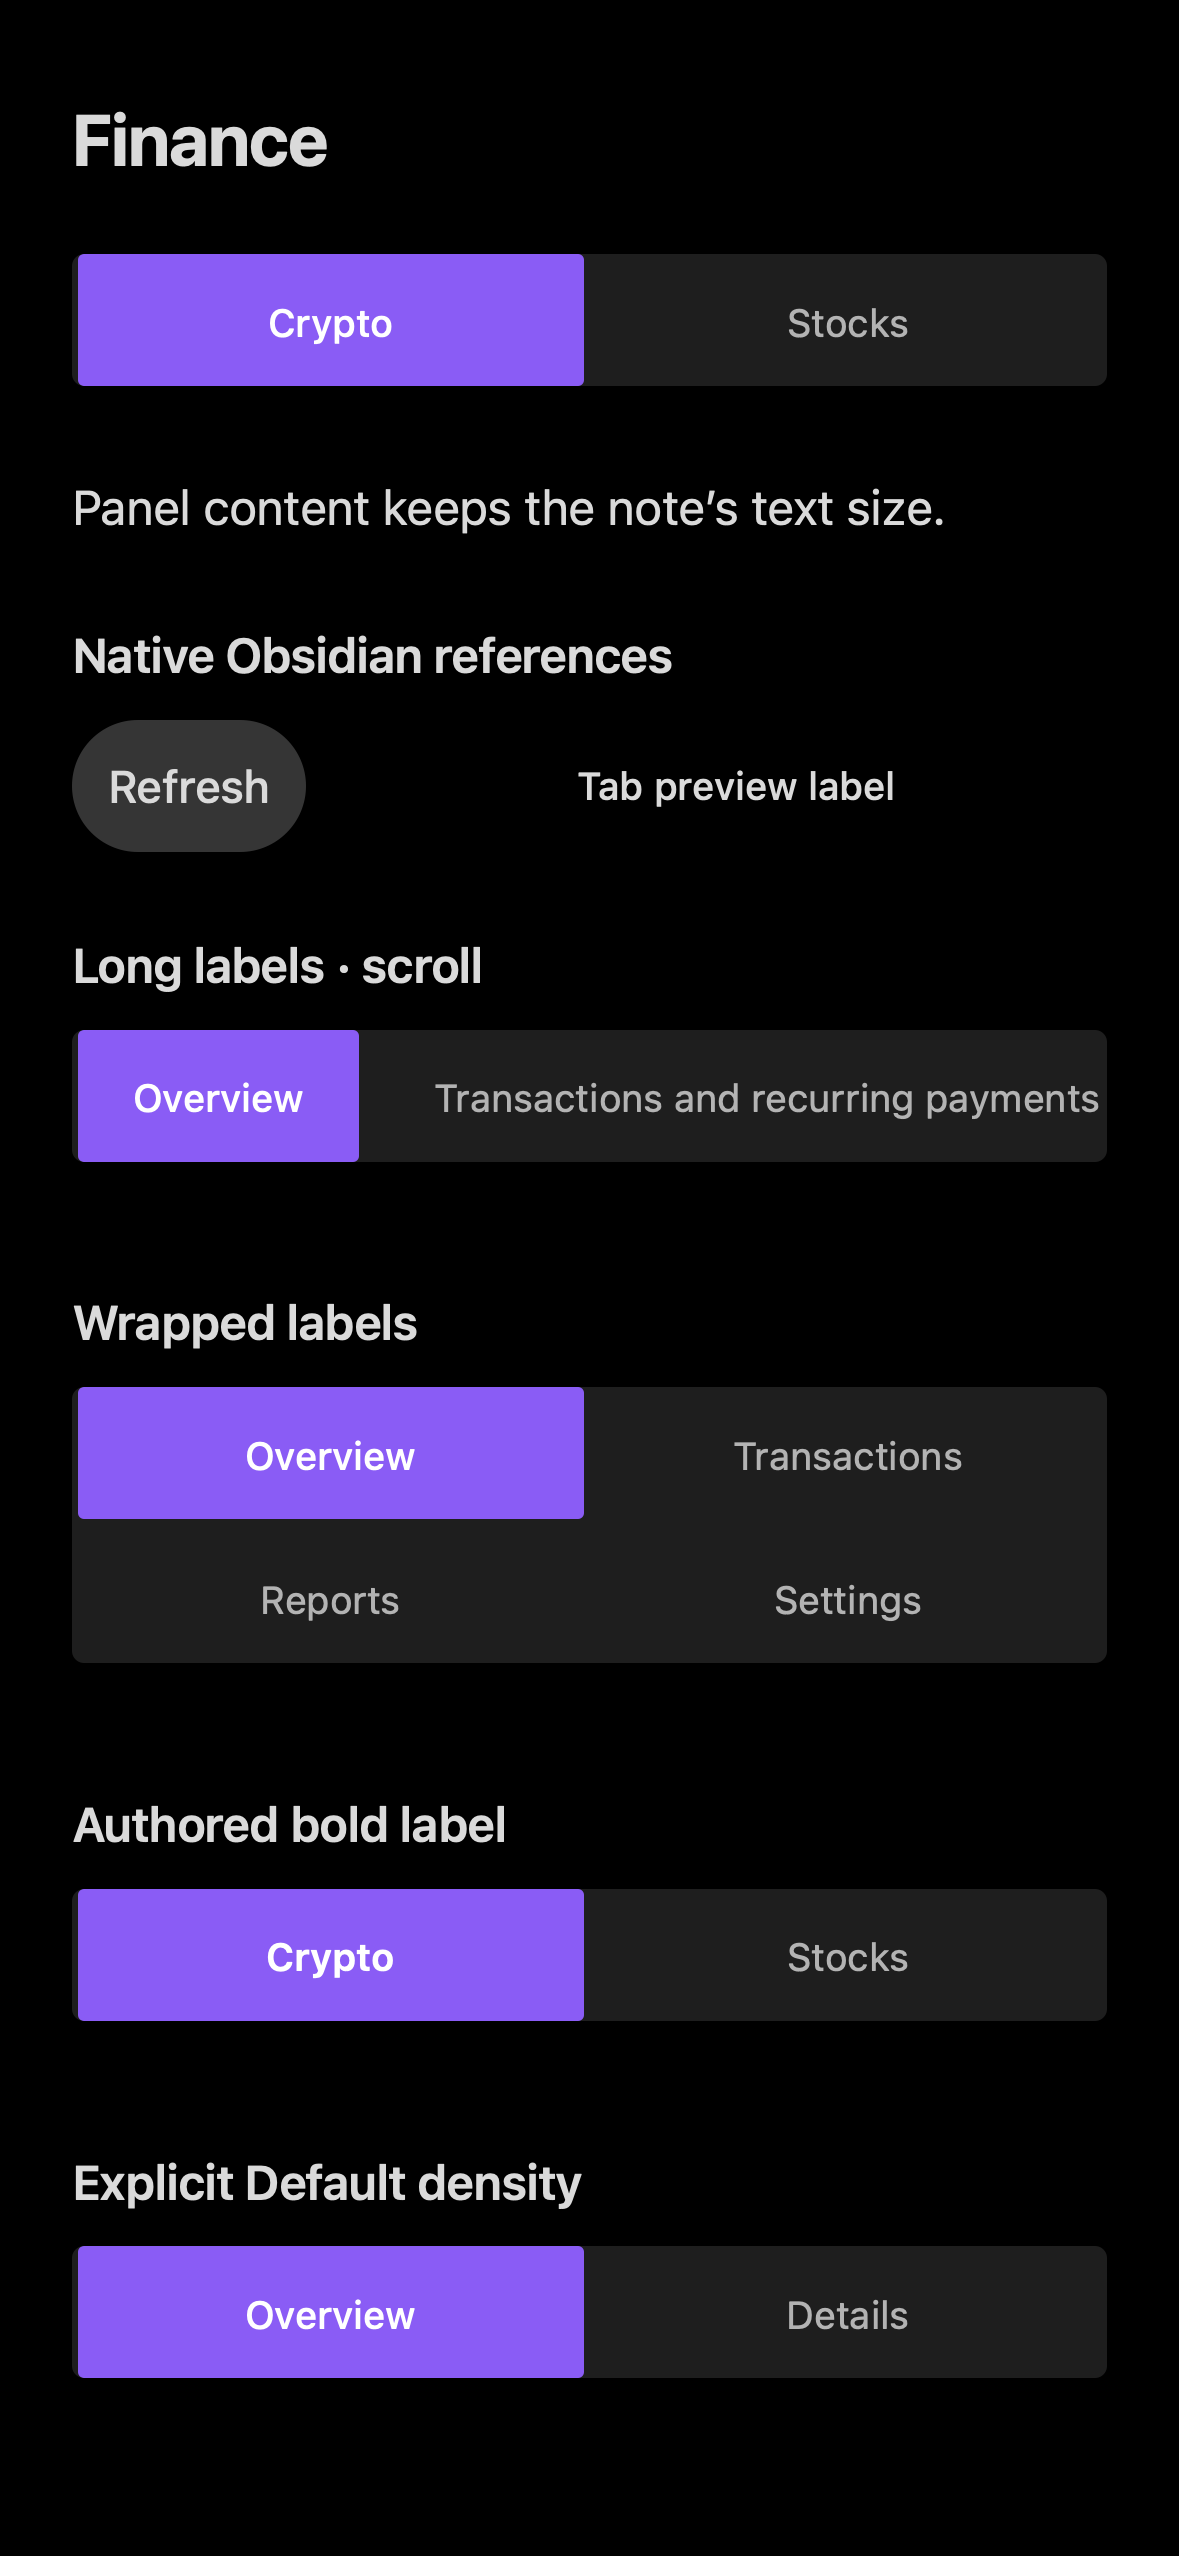
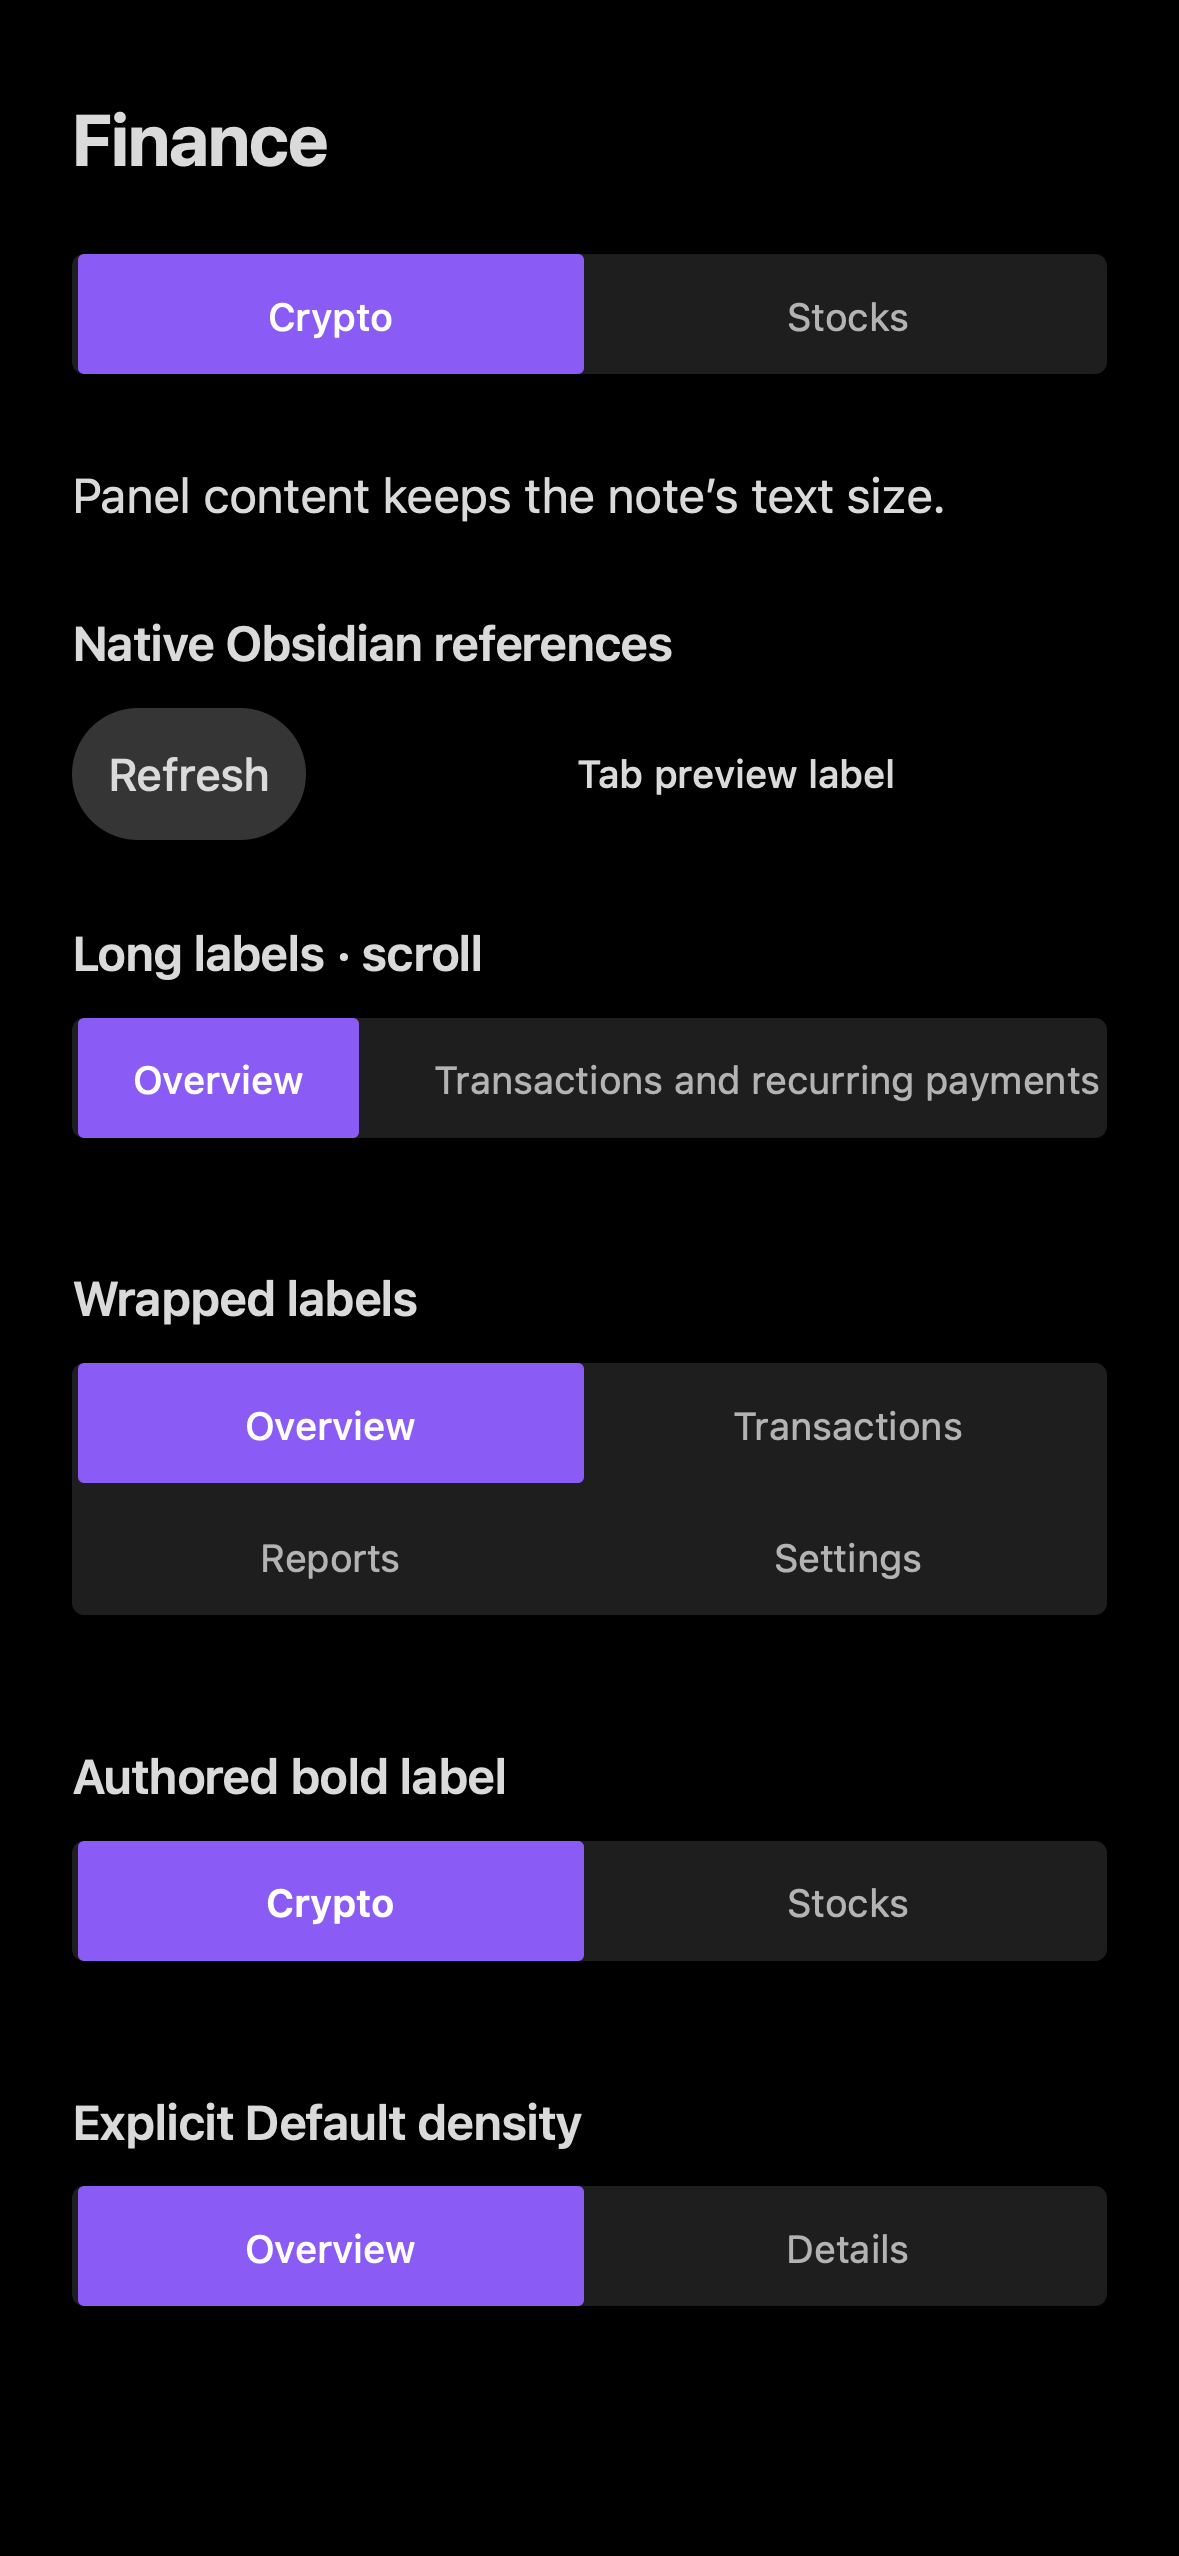
fix: reduce touch Rail height to 40px

diff --git a/tests/render.test.ts b/tests/render.test.ts
@@ -1757,7 +1757,7 @@ test("makes mounted tabs compact on narrow viewports without containing their pa
 	expect(styles).toMatch(/\.tabsdown\.tabsdown--mounted \{[^}]*container-type:\s*normal/);
 });
 
-test("uses scalable compact mobile control typography and a native-height touch rail", () => {
+test("uses scalable compact mobile control typography and a 40px touch rail", () => {
 	const styles = readStyles();
 	const mobile = matchingRuleBodies(styles, "body.is-mobile .tabsdown > .tabsdown__tablist");
 	expect(mobile).toContain("--tabsdown-tab-font-size: var(--font-ui-smaller)");
@@ -1788,10 +1788,12 @@ test("keeps authored overrides root-scoped without runtime width state", () => {
 	);
 });
 
-test("coarse pointers keep every authored personality and density at 44px", () => {
+test("coarse pointers keep 44px widths and 40px Rail or 44px other heights", () => {
 	const styles = readStyles();
 	const coarse = styles.slice(styles.lastIndexOf("@media (any-pointer: coarse)"));
 	const coarseRule = matchingRules(coarse, "body .tabsdown.tabsdown.tabsdown.tabsdown.tabsdown.tabsdown > .tabsdown__tablist");
+	const railRule = matchingRules(coarse, "body .tabsdown.tabsdown.tabsdown.tabsdown.tabsdown.tabsdown > .tabsdown__tablist.tabsdown__tablist--rail");
+	expect(railRule).toContain("--tabsdown-tab-min-block-size: 40px");
 	expect(coarseRule).toContain("--tabsdown-tab-min-size: 44px");
 	expect(coarseRule).toContain("--tabsdown-tab-min-block-size: 44px");
 	expect(coarseRule).toContain("--tabsdown-rail-track-padding: 0.125rem");
@@ -1804,6 +1806,7 @@ test("coarse pointers keep every authored personality and density at 44px", () =
 		matchingRules(styles, ".tabsdown.tabsdown--personality-"),
 		matchingRules(styles, ".tabsdown.tabsdown--density-"),
 		coarseRule,
+		railRule,
 	].join("\n");
 	for (const personality of ["button", "underline", "separator", "rail"]) {
 		for (const density of ["", "default", "compact"]) {
@@ -1812,7 +1815,7 @@ test("coarse pointers keep every authored personality and density at 44px", () =
 				density ? ` tabsdown--density-${density}` : ""
 			}`;
 			const list = root.appendChild(document.createElement("div"));
-			list.className = "tabsdown__tablist";
+			list.className = `tabsdown__tablist${personality === "rail" ? " tabsdown__tablist--rail" : ""}`;
 			const computed = getComputedStyle(list);
 			expect(
 				computed.getPropertyValue("--tabsdown-tab-min-size").trim(),
@@ -1821,7 +1824,7 @@ test("coarse pointers keep every authored personality and density at 44px", () =
 			expect(
 				computed.getPropertyValue("--tabsdown-tab-min-block-size").trim(),
 				`${personality}/${density || "automatic"}`,
-			).toBe("44px");
+			).toBe(personality === "rail" ? "40px" : "44px");
 			root.remove();
 		}
 	}

diff --git a/demo/.obsidian/plugins/tabsdown/styles.css b/demo/.obsidian/plugins/tabsdown/styles.css
@@ -2369,9 +2369,10 @@ body.is-mobile .tabsdown > .tabsdown__tablist {
 		--tabsdown-rail-track-padding: 0.125rem;
 	}
 
-	/* The Rail's 44px buttons already provide the touch target; extra vertical
-	   track padding would make the whole control taller than native inputs. */
+	/* Keep the requested compact Rail height without extra vertical track
+	   padding. Text can still grow beyond this minimum. */
 	body .tabsdown.tabsdown.tabsdown.tabsdown.tabsdown.tabsdown > .tabsdown__tablist.tabsdown__tablist--rail {
+		--tabsdown-tab-min-block-size: 40px;
 		padding-block: 0;
 	}
 }

diff --git a/styles.css b/styles.css
@@ -2369,9 +2369,10 @@ body.is-mobile .tabsdown > .tabsdown__tablist {
 		--tabsdown-rail-track-padding: 0.125rem;
 	}
 
-	/* The Rail's 44px buttons already provide the touch target; extra vertical
-	   track padding would make the whole control taller than native inputs. */
+	/* Keep the requested compact Rail height without extra vertical track
+	   padding. Text can still grow beyond this minimum. */
 	body .tabsdown.tabsdown.tabsdown.tabsdown.tabsdown.tabsdown > .tabsdown__tablist.tabsdown__tablist--rail {
+		--tabsdown-tab-min-block-size: 40px;
 		padding-block: 0;
 	}
 }

diff --git a/demo/Tabsdown test matrix.md b/demo/Tabsdown test matrix.md
@@ -14,15 +14,15 @@ Reuse the Positions, Icons, and Labels sections below while changing settings; n
 | Check | Expected |
 | --- | --- |
 | Start from the defaults, then set Left/Right Personality to **Inherit defaults** and change each global Personality, Palette, and Alignment value. | Top/Bottom and `mountTabs` start as Rail; Left/Right start as Underline. After inheriting, all four fenced positions follow the globals while `mountTabs` remains global-only. |
-| Try Button, Underline, Separator, and Rail globally, then reverse each with every position override. | Only that position changes. Separator is centered between tabs, spans 80% of their cross-axis, and is absent at wrapped row/column starts. Rail has a larger padded rounded track and shorter desktop tabs while preserving 44px coarse-pointer targets. |
+| Try Button, Underline, Separator, and Rail globally, then reverse each with every position override. | Only that position changes. Separator is centered between tabs, spans 80% of their cross-axis, and is absent at wrapped row/column starts. Rail has a larger padded rounded track and shorter desktop tabs with a 40px touch minimum height; other personalities retain 44px touch heights. |
 | Try Underline placement Auto/Top/Right/Bottom/Left and thickness 1/2/8. | Auto is bottom for Top/Bottom, right for Left, and left for Right—even when a narrow side list becomes a row. Explicit placement wins without hover/selection layout shifts. |
 | Hover selected and unselected tabs, switch Primary/Secondary, then try gap 0/48 in Scroll/Wrap, content spacing 0/12/48, and selected weight Thinner/Default/Bolder. | Primary accents selected Separator text and the Rail segment; Secondary remains neutral. Only selected/expanded labels change weight at 400/(600 on wide desktop or Medium on mobile and narrow viewports)/700, without changing tab width. |
 | Change horizontal padding directly to 0/36/48 in Default and Compact; repeat with `--tabsdown-horizontal-padding: 1.5rem` in a CSS snippet. | Each value is the Default/base padding; Compact uses one-third (0/12/16 px or 0.5rem), without a separate toggle, and overflow remains usable. |
 | Change side-list width directly to 192/256/320 on Left/Right, try every Alignment option, and resize narrowly. | Each slider change applies immediately on wide lists; tabs remain equal width regardless of Alignment; narrow lists return to an equal-width full-width row and panels remain visible. |
 | Set icon size 12/32 and spacing 0/16, using the Icons section. | Icon boxes and gaps change without moving plain-label tabs off baseline. |
 | In Nested blocks, switch Nested block style between Card and Flat while viewing section 9 with Primary and Secondary palettes. | Card shows a bordered nested surface; Flat shows tabs directly under their parent without a wrapper surface; nested tabs keep the Secondary palette under either parent palette. |
-| Right-click one authored block across mobile, wide, and split-pane layouts (around 28rem). Confirm Position, Overflow, Density, Personality, Palette, and Alignment appear as submenus, then try Inherit, Default, and Compact density plus every personality. | The current choices are checked and save immediately; the note stays at the same scroll position; no ellipsis button is rendered; Inherit is always Compact on mobile and becomes Compact at 28rem or narrower on desktop; Compact visibly reduces tab and Rail track padding while explicit Default/Compact stays fixed; nested blocks resolve independently; touch tabs remain at least 44 × 44 px. |
-| Mount two and then many tabs through `mountTabs`; test mobile portrait/landscape, a narrow viewport without `is-mobile`, and a wide desktop viewport. | Mobile and narrow viewports use Compact spacing; wide desktop follows global density; mobile labels use the compact UI token and Medium selection weight, automatic horizontal padding is 18px by default, touch targets stay at least 44 × 44 px without extra vertical Rail padding; scroll/wrap and fixed-position panel overlays still work. |
+| Right-click one authored block across mobile, wide, and split-pane layouts (around 28rem). Confirm Position, Overflow, Density, Personality, Palette, and Alignment appear as submenus, then try Inherit, Default, and Compact density plus every personality. | The current choices are checked and save immediately; the note stays at the same scroll position; no ellipsis button is rendered; Inherit is always Compact on mobile and becomes Compact at 28rem or narrower on desktop; Compact visibly reduces tab and Rail track padding while explicit Default/Compact stays fixed; nested blocks resolve independently; touch tabs remain at least 44px wide, with 40px Rail or 44px other minimum heights. |
+| Mount two and then many tabs through `mountTabs`; test mobile portrait/landscape, a narrow viewport without `is-mobile`, and a wide desktop viewport. | Mobile and narrow viewports use Compact spacing; wide desktop follows global density; mobile labels use the compact UI token and Medium selection weight, automatic horizontal padding is 18px by default, Rail has a 40px minimum height and at least 44px-wide tabs without extra vertical padding; scroll/wrap and fixed-position panel overlays still work. |
 | Set every authored field, reopen the menu, then clear each field back to Inherit. Change the matching global and position settings after clearing. | The saved `config:` keeps only explicit values and disappears when every field inherits; later Style Settings changes apply without stale declarations. |
 | For Top/Bottom/Left/Right, cross Scroll/Wrap with Primary/Secondary and Start/Center/Equal width at wide and narrow widths. | Position, overflow, palette, and alignment resolve independently; Left/Right tabs remain full-width when beside content and equal-width when moved above it. |
 | Put two byte-identical blocks in one note, configure only the second, then right-click it again and edit or move its source before choosing another menu value. | Only the chosen block changes; the already-open menu refuses the stale change instead of changing either sibling. |

diff --git a/docs/embedding-tabs.md b/docs/embedding-tabs.md
@@ -52,6 +52,6 @@ Mounted tabs act as a collapsible switch. Selection starts at `null` unless you 
 - Tabsdown names panels that need a name. A panel with `aria-label` or `aria-labelledby` keeps it, and a panel with its own controls stays out of the tab order so those controls come first.
 - After `destroy()`, Tabsdown does not move focus. If teardown follows user input, focus the element that replaces the controls.
 - `onSelectionChange` runs after user activation or when making a tab unavailable closes its panel. It does not run on mount or after your own `setSelection` calls, and calling the controller from the handler is safe.
-- Mounted tabs use Compact spacing on mobile and in viewports 28rem wide or narrower. Mobile labels follow Obsidian’s compact UI font and text scaling, with 18px automatic horizontal padding at the default settings. Touch targets remain at least 44 × 44 px; Rail has no extra vertical track padding. Wide desktop layouts keep the global density.
+- Mounted tabs use Compact spacing on mobile and in viewports 28rem wide or narrower. Mobile labels follow Obsidian’s compact UI font and text scaling, with 18px automatic horizontal padding at the default settings. Touch Rails have a 40px minimum height and at least 44px-wide tabs; other personalities retain 44 × 44 px targets. Rail has no extra vertical track padding and expands for larger text. Wide desktop layouts keep the global density.
 - Mount into the document so Tabsdown can resolve animation and reduced-motion styles. A detached container falls back to a fixed animation duration.
 - Do not mount inside a rendered `tabsdown` panel. A Markdown refresh can replace that panel without tearing down your controls.

diff --git a/docs/style-settings.md b/docs/style-settings.md
@@ -26,7 +26,7 @@ An authored block can override position, overflow, density, personality, palette
 - Tabs created with `mountTabs` also become Compact on mobile and in viewports 28rem wide or narrower. Their live panels keep their original containing block, including fixed-position overlays.
 - Mobile labels use the theme’s compact UI font (`--font-ui-smaller`, about 13px at default mobile settings) and Medium selection weight. They follow Obsidian’s preferred text scale; authored bold labels and explicit Thinner/Bolder preferences are preserved. Wide desktop labels keep `--font-ui-small`.
 - Automatic mobile spacing uses half the horizontal-padding setting (18px with the default 36px setting). Explicit Default and Compact densities keep their own padding.
-- Touch/coarse-pointer tabs retain at least 44 × 44 px targets across every personality. Rail removes extra vertical track padding for a 44px total minimum height and grows when larger text needs room.
+- Touch/coarse-pointer Rails have a 40px total minimum height and at least 44px-wide tabs. Other personalities retain at least 44 × 44 px targets. Rail has no extra vertical track padding and grows when larger text needs room.
 - Theme colors, focus styles, and reduced-motion behavior still come from Obsidian.
 
 ## Mobile sizing references
